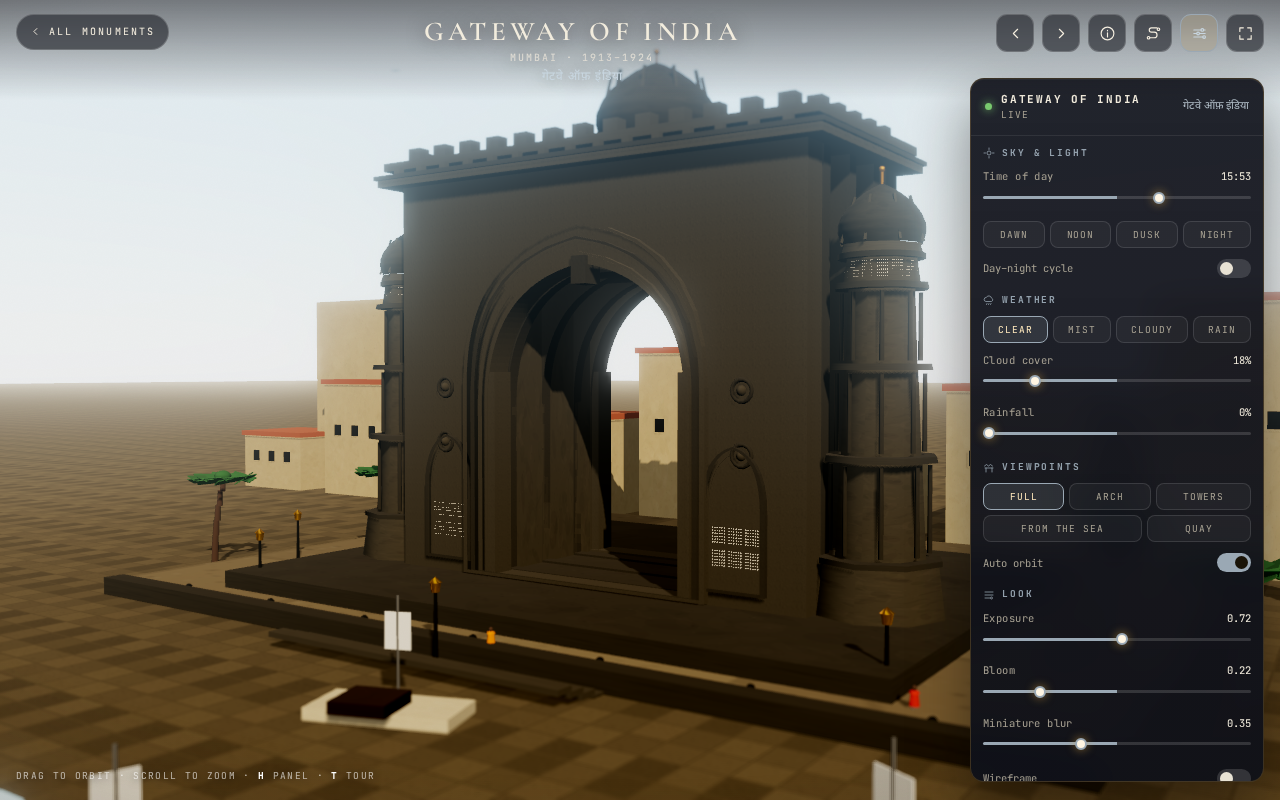
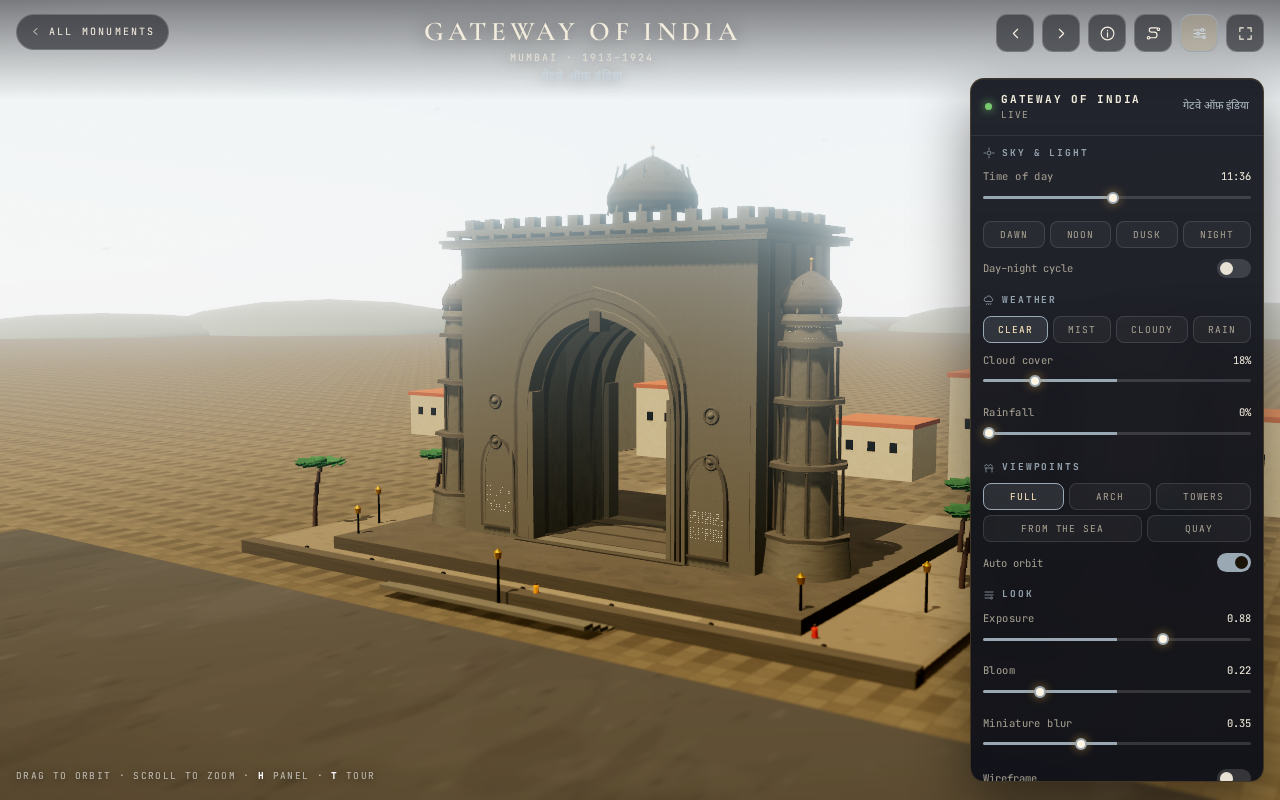
Depth pass: India Gate 8k -> 23k triangles; Gateway shoreline
India Gate
- archivolt rings, keystone, impost blocks, sunburst frieze, dentil course on
  all four faces, steps to the plinth, bollards along the axis
- more people and trees; warmer grass; home view pulled back so the plinth,
  fountains and canopy are in frame

Gateway of India
- the sea now starts beyond a shore strip instead of clipping into the near
  corner of the frame
- finer paving (engine gains a per-page ground tile size)

diff --git a/assets/js/monuments/india-gate.js b/assets/js/monuments/india-gate.js
@@ -9,11 +9,11 @@ export default {
   bounds: 70,
   minDist: 14,
   maxDist: 260,
-  time: 16.4,
-  home: { pos: [46, 20, 96], target: [0, 20, 0], fov: 40 },
-  ground: { texture: 'grass', size: 2400, color: 0x8d9463 },
+  time: 15.2,
+  home: { pos: [62, 27, 120], target: [0, 19, 0], fov: 40 },
+  ground: { texture: 'grass', size: 2400, color: 0x9dab74, tile: 16 },
   views: [
-    { name: 'Full', pos: [46, 20, 96], target: [0, 20, 0] },
+    { name: 'Full', pos: [62, 27, 120], target: [0, 19, 0] },
     { name: 'Axis', pos: [0, 12, 96], target: [0, 20, 0] },
     { name: 'Arch', pos: [6, 8, 32], target: [0, 14, 0] },
     { name: 'Crown', pos: [14, 34, 30], target: [0, 32, 0] },
@@ -23,7 +23,7 @@ export default {
     {
       title: 'All India War Memorial', deva: 'इंडिया गेट',
       text: 'India Gate stands at the eastern end of the ceremonial axis of New Delhi. Designed by Edwin Lutyens, it commemorates the 74,187 soldiers of the British Indian Army who died between 1914 and 1921, in France, Flanders, Mesopotamia, Persia, East Africa, Gallipoli and the Third Anglo-Afghan War.',
-      pos: [46, 20, 96], target: [0, 20, 0], time: 16.4
+      pos: [62, 27, 120], target: [0, 19, 0], time: 15.2
     },
     {
       title: 'Forty-Two Metres', deva: 'मेहराब',
@@ -53,7 +53,7 @@ export default {
     {
       title: 'The Gate at Night', deva: 'रात्रि',
       text: 'After dark the sandstone is floodlit from below and the arch becomes a bright frame against the sky.',
-      pos: [40, 17, 88], target: [0, 20, 0], time: 21.2
+      pos: [54, 23, 108], target: [0, 20, 0], time: 21.2
     }
   ],
 
@@ -85,6 +85,7 @@ export default {
     // the barrel of the passage
     add('dark', box(AX - 0.2, AY, D - 5.0), 0, base + SILL + AY / 2, 0);
     add('stone', box(AX + 1.6, 0.2, D - 1.0), 0, base + 0.1, 0);
+    add('plaster', box(AX - 0.6, 0.3, D - 5.2), 0, base + 0.25, -1.4);
     // mouldings at the springing
     [-1, 1].forEach((s) => {
       add('stone', box(2.2, 0.5, D + 0.4), s * (AX / 2 + 1.1), base + SILL + AY * 0.62, 0);
@@ -105,6 +106,39 @@ export default {
     add('stone', box(W - 1.4, 0.4, D - 0.4), 0, base + H + 4.7, 0);
     add('stone', cyl(1.7, 1.2, 1.0, 20), 0, base + H + 5.6, 0);
     add('stone', cyl(2.1, 2.1, 0.22, 20), 0, base + H + 6.2, 0);
+
+    /* ---- carved detail: archivolt, keystone, friezes, dentils ------------ */
+    add('stone', archFrame(AX + 1.2, AY + 0.9, 0.36, 0.42), 0, base + SILL, D / 2 + 0.04);
+    add('stone', archFrame(AX + 2.2, AY + 1.5, 0.3, 0.34), 0, base + SILL, D / 2 + 0.02);
+    add('stone', archFrame(AX + 1.2, AY + 0.9, 0.36, 0.42), 0, base + SILL, -D / 2 - 0.06, { ry: Math.PI });
+    add('stone', box(1.05, 1.6, 1.3), 0, base + SILL + AY - 0.55, D / 2 - 0.45);
+    // impost blocks at the springing
+    [-1, 1].forEach((sd) => {
+      add('stone', box(1.5, 0.5, D + 0.7), sd * (AX / 2 + 1.05), base + SILL + AY * 0.55, 0);
+    });
+    // sunburst frieze above the arch
+    for (let i = -6; i <= 6; i++) {
+      add('stone', box(0.5, 0.95, 0.2), i * 1.35, base + H - 3.1, D / 2 + 0.1, { rz: i % 2 ? 0.32 : -0.32 });
+    }
+    // dentil course under the cornice, all four faces
+    for (let i = -9; i <= 9; i++) {
+      add('stone', box(0.55, 0.42, 0.42), i * 1.55, base + H - 1.95, D / 2 + 0.32);
+      add('stone', box(0.55, 0.42, 0.42), i * 1.55, base + H - 1.95, -D / 2 - 0.32);
+    }
+    for (let i = -3; i <= 3; i++) {
+      add('stone', box(0.42, 0.42, 0.55), W / 2 + 0.32, base + H - 1.95, i * 1.55);
+      add('stone', box(0.42, 0.42, 0.55), -W / 2 - 0.32, base + H - 1.95, i * 1.55);
+    }
+    // steps up to the plinth
+    for (let i = 0; i < 4; i++) {
+      add('stone', box(22 - i * 1.5, 0.22, 1.0), 0, 0.46 - i * 0.2, D / 2 + 3.4 + i * 0.95);
+    }
+    // bollards along the axis
+    for (let i = -4; i <= 4; i++) {
+      if (Math.abs(i) < 2) continue;
+      add('black', cyl(0.16, 0.2, 0.9, 8), i * 4.6, 0.45, 20);
+      add('black', sph(0.18, 8), i * 4.6, 0.95, 20);
+    }
 
     /* ---- Amar Jawan Jyoti under the arch -------------------------------- */
     add('black', box(4.4, 0.5, 4.4), 0, base + 0.25, 0);
@@ -144,11 +178,13 @@ export default {
 
     /* ---- crowds, lamps, trees ------------------------------------------ */
     const people = [[-6, 12], [6, 13], [-11, 8], [11, 9], [0, 16], [-16, 20], [16, 21], [-3, 6],
-      [3, 5], [-9, 24], [9, 25], [14, 4], [-14, 4], [0, 30]];
+      [3, 5], [-9, 24], [9, 25], [14, 4], [-14, 4], [0, 30], [-19, 16], [19, 17], [7, 8],
+      [-7, 9], [12, 28], [-12, 29], [4, 34], [-4, 34]];
     people.forEach(([x, z], i) => ctx.person(x, z, i * 1.1, ['fabricWhite', 'fabricSaffron', 'fabricRed'][i % 3], 0.95));
     [[-12, 14], [12, 14], [-20, 30], [20, 30], [0, 44]].forEach(([x, z]) => ctx.lamp(x, z, 3.6, 'black'));
-    [[-30, 20], [30, 20], [-34, 44], [34, 44], [-26, -16], [26, -16], [-40, 60], [40, 60]]
-      .forEach(([x, z], i) => ctx.tree(x, z, 1.2 + (i % 3) * 0.2, 'round'));
+    [[-30, 20], [30, 20], [-34, 44], [34, 44], [-26, -16], [26, -16], [-40, 60], [40, 60],
+     [-24, 66], [24, 66], [-44, 30], [44, 30], [-18, -22], [18, -22]]
+      .forEach(([x, z], i) => ctx.tree(x, z, 1.2 + (i % 3) * 0.2, i % 4 === 0 ? 'cypress' : 'round'));
 
     ctx.light({ pos: [-24, 14, 34], target: [0, 18, 0], color: 0xffd0a0, intensity: 2600, distance: 180 });
     ctx.light({ pos: [24, 16, 30], target: [0, 18, 0], color: 0xffc890, intensity: 2200, distance: 180 });

diff --git a/assets/js/monuments/gateway-of-india.js b/assets/js/monuments/gateway-of-india.js
@@ -13,9 +13,9 @@ export default {
   minDist: 14,
   maxDist: 240,
   home: { pos: [54, 23, 80], target: [0, 14, 0], fov: 40 },
-  ground: { texture: 'paving', size: 2400, color: 0xa89c86 },
+  ground: { texture: 'paving', size: 2400, color: 0xa89c86, tile: 6 },
   groundY: -0.35,
-  water: { y: -0.28, size: 520, z: 300, color: 0x24424f, distortion: 2.2 },
+  water: { y: -0.28, size: 460, z: 372, color: 0x24424f, distortion: 2.2 },
   views: [
     { name: 'Full', pos: [54, 23, 80], target: [0, 14, 0] },
     { name: 'Arch', pos: [11, 10, 30], target: [0, 12, 0] },
@@ -71,6 +71,8 @@ export default {
 
     /* ---- quay, steps, plinth -------------------------------------------- */
     block('paving', 64, 0.9, 48, 0, -0.3, -6);
+    // the shore between the quay and the water, so the sea starts beyond it
+    block('stone', 110, 0.8, 300, 0, -0.32, 176);
     block('basaltDark', 46, 1.2, 34, 0, 0.5, -2);
     for (let i = 0; i < 3; i++) block('basalt', 30 - i * 1.4, 0.28, 18 - i * 1.0, 0, 0.6 + i * 0.28, 0);
     // sea wall and mooring steps on the harbour side

diff --git a/assets/js/monument-engine.js b/assets/js/monument-engine.js
@@ -899,7 +899,7 @@ export function boot(mon) {
     const groundCfg = Object.assign({ texture: 'sand', size: 2400, color: 0xcdb88f }, mon.ground || {});
     groundCfg.size = Math.max(groundCfg.size, 2400);
     const gTex = T[groundCfg.texture] || T.sandGround;
-    const perTile = { paving: 8, grass: 22, sandGround: 26, stone: 14 }[groundCfg.texture] || 24;
+    const perTile = groundCfg.tile || { paving: 8, grass: 22, sandGround: 26, stone: 14 }[groundCfg.texture] || 24;
     const gRepeat = groundCfg.size / perTile;
     const gc = gTex.clone();
     gc.needsUpdate = true;
